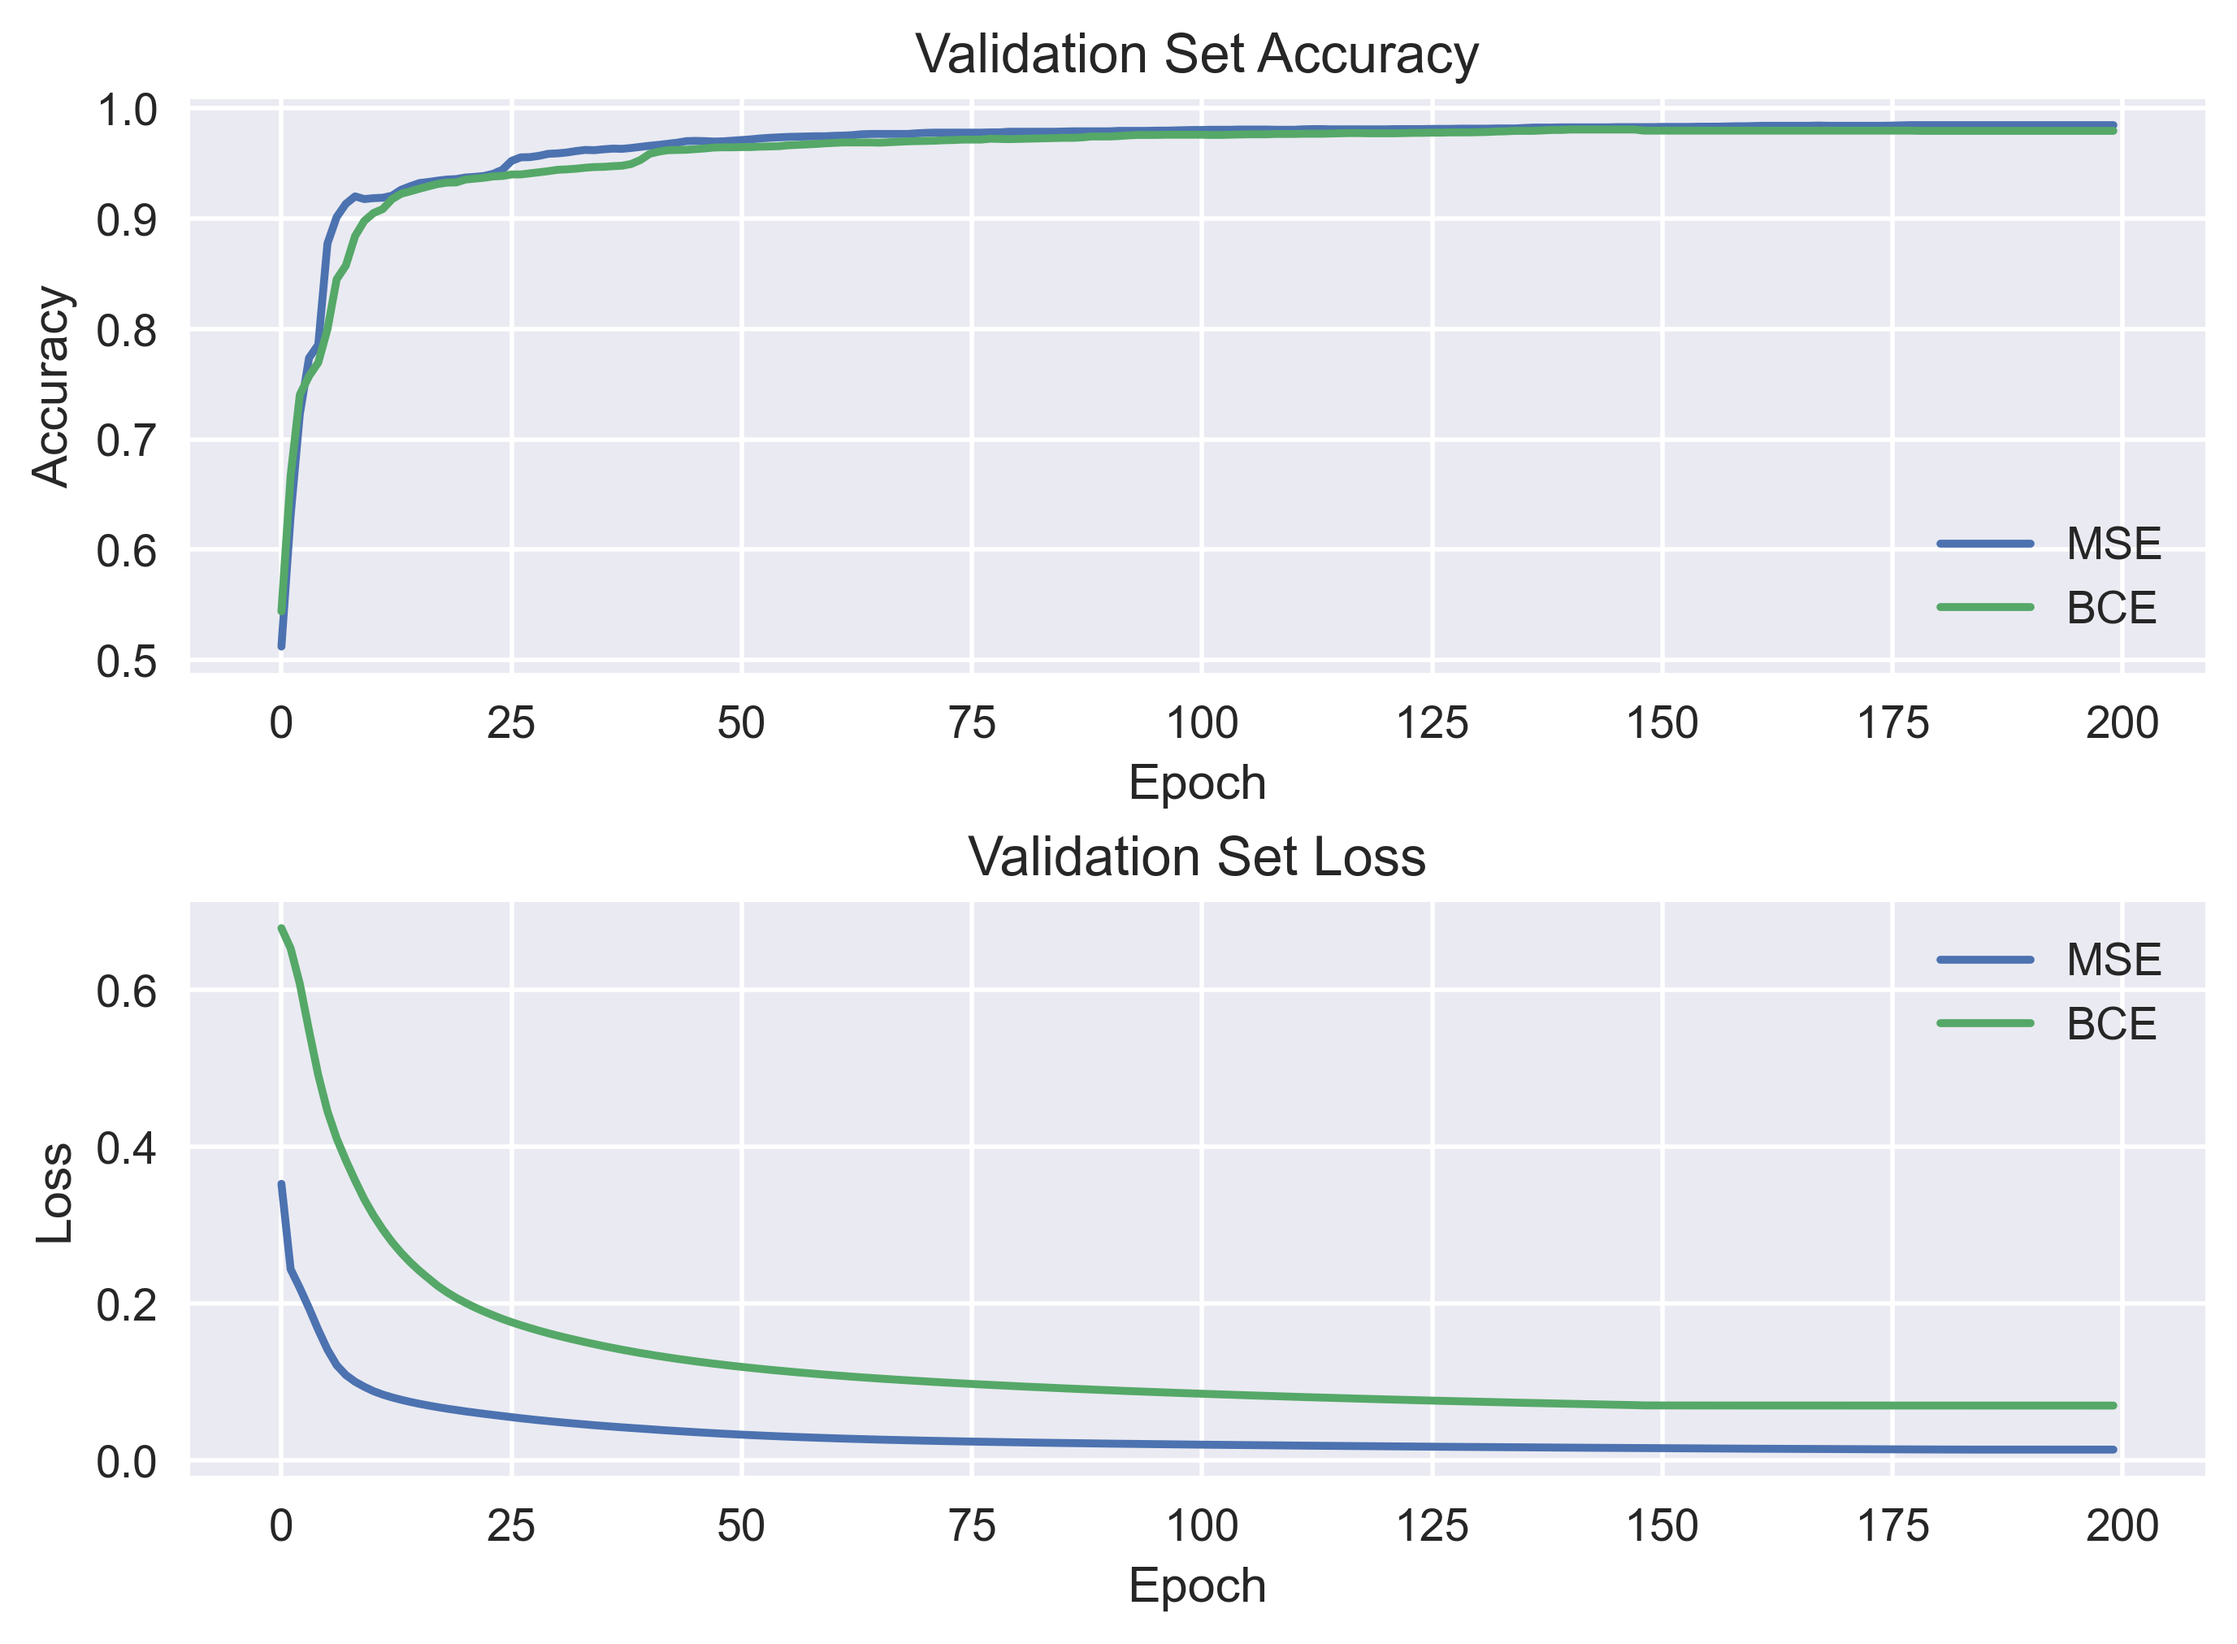
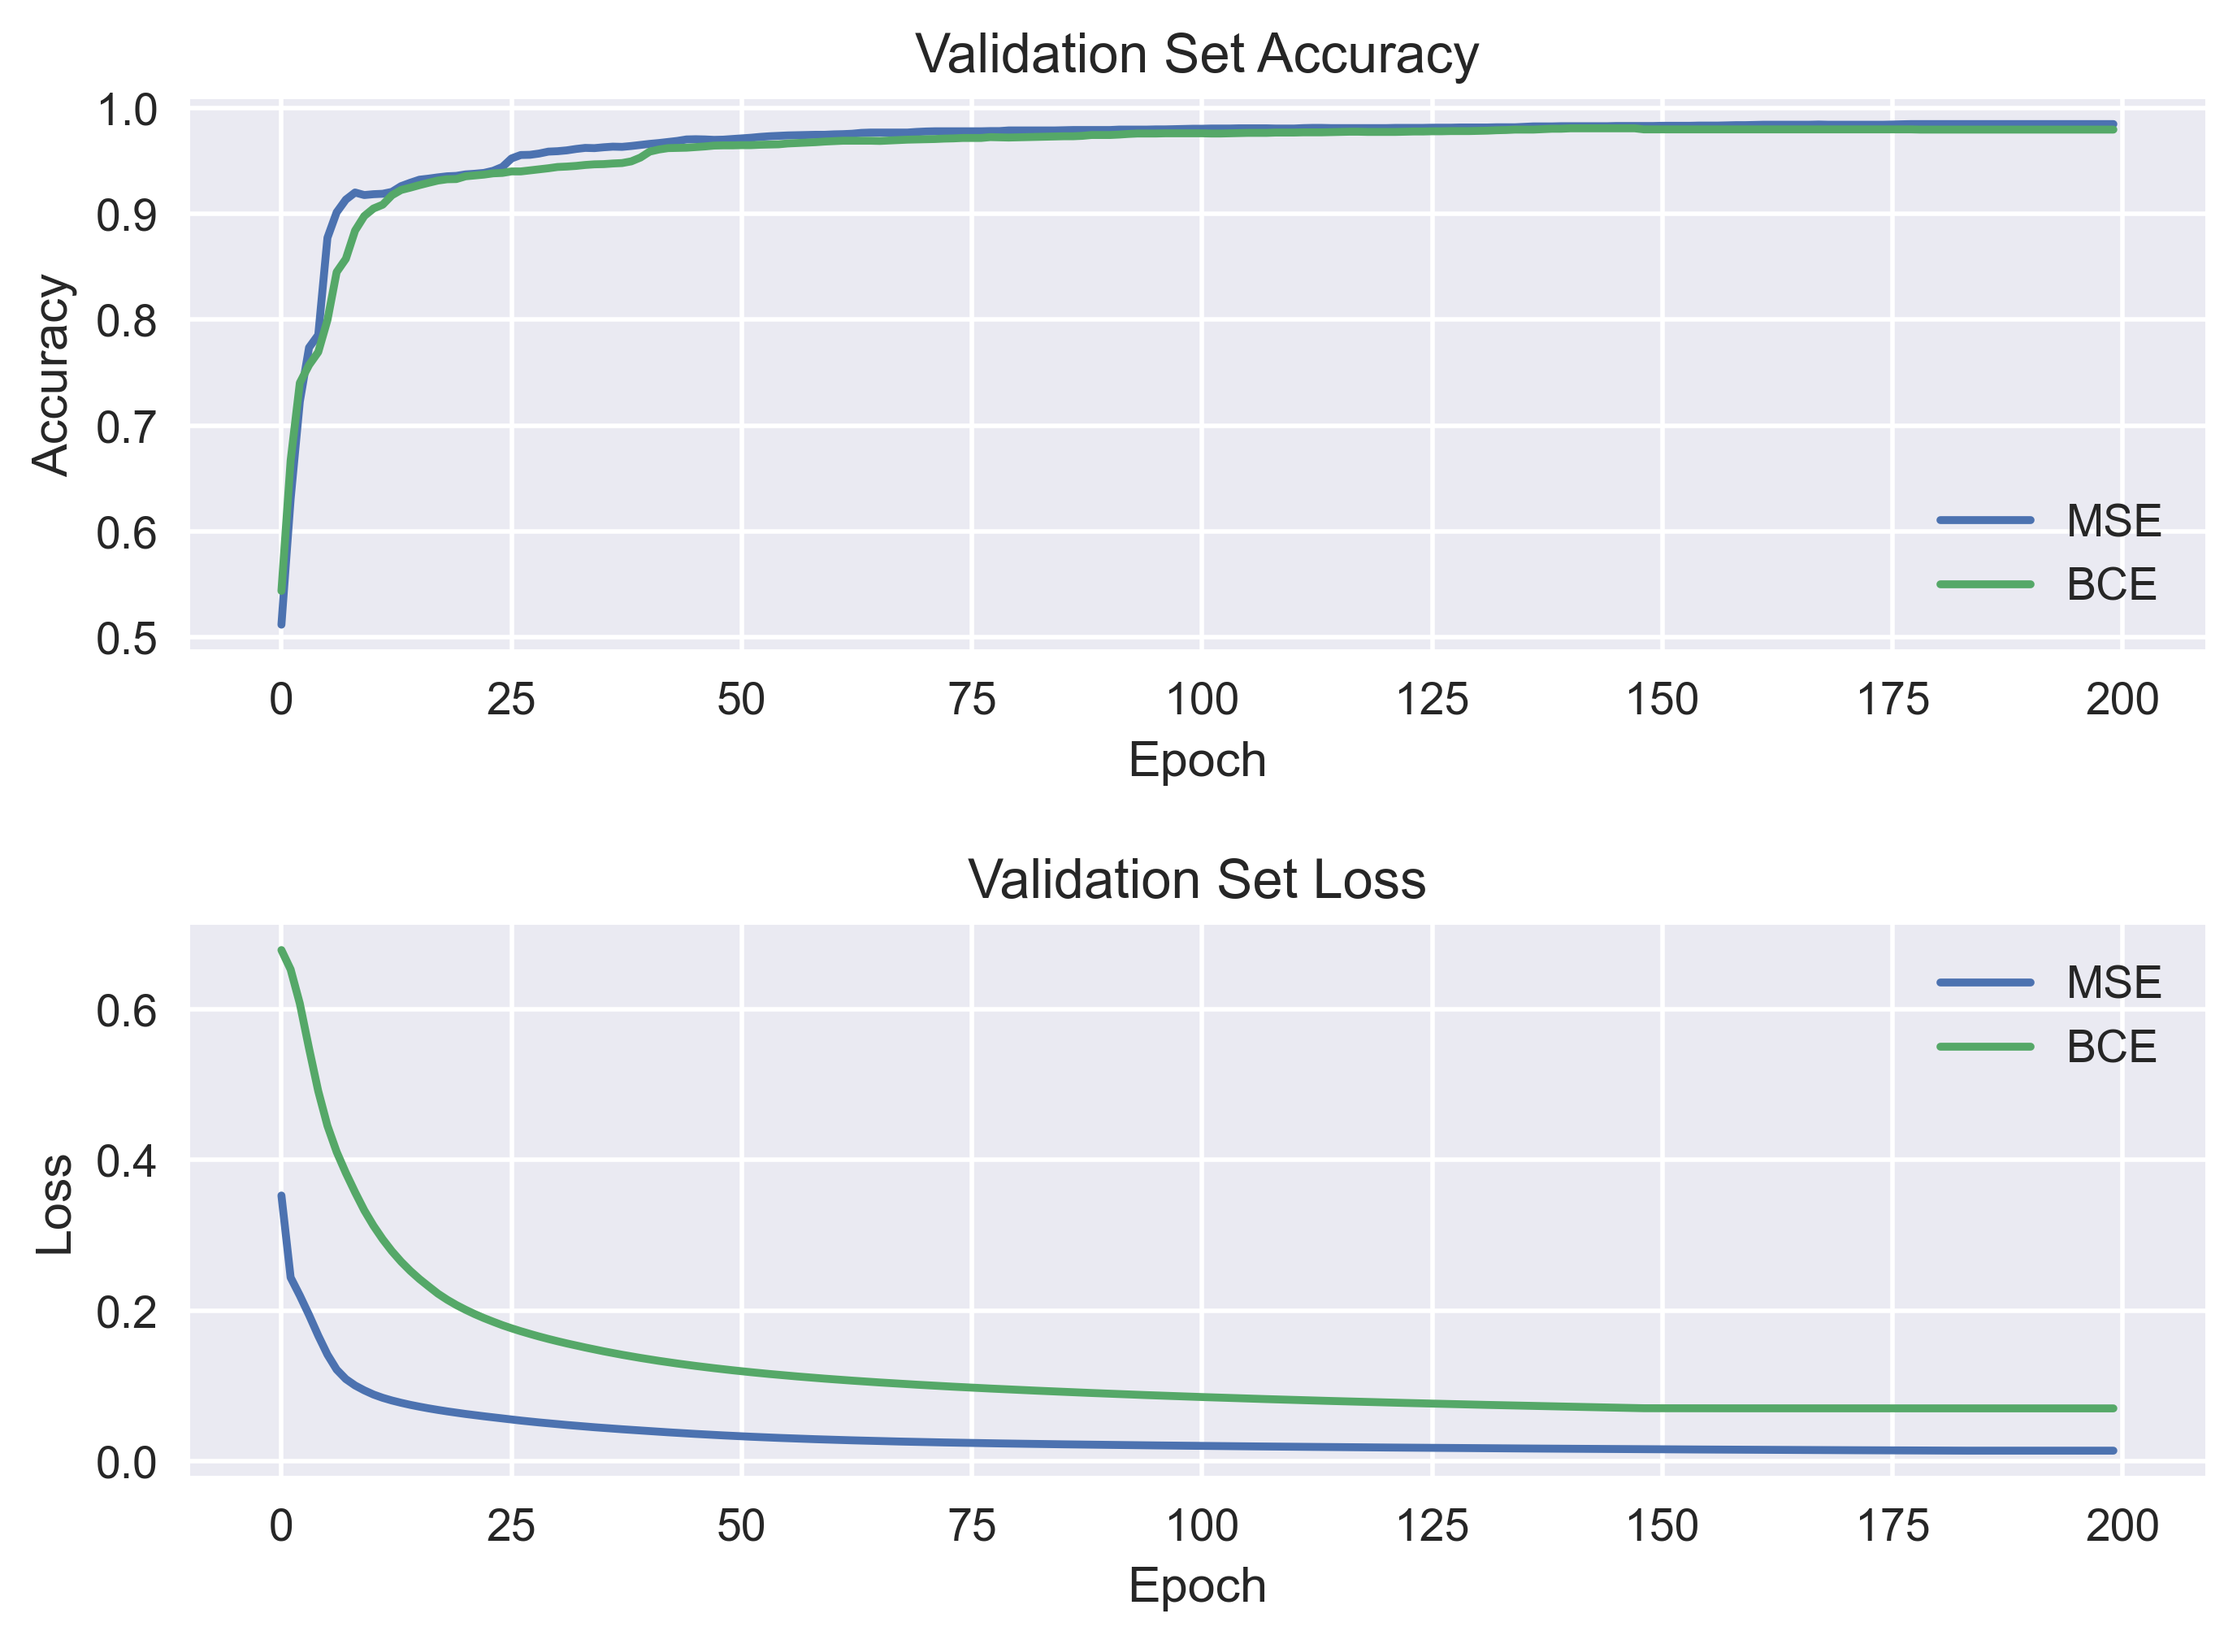
Created more space between graphs

diff --git a/detector/graphs/loss_functions.py b/detector/graphs/loss_functions.py
@@ -33,6 +33,6 @@ ax2.legend()
 ax2.set_xlabel('Epoch')
 ax2.set_ylabel('Loss')
 
-plt.subplots_adjust(hspace=0.4)
+plt.subplots_adjust(hspace=0.5)
 plt.savefig('saves/loss_functions.png', dpi=400, bbox_inches='tight')
 plt.show()
